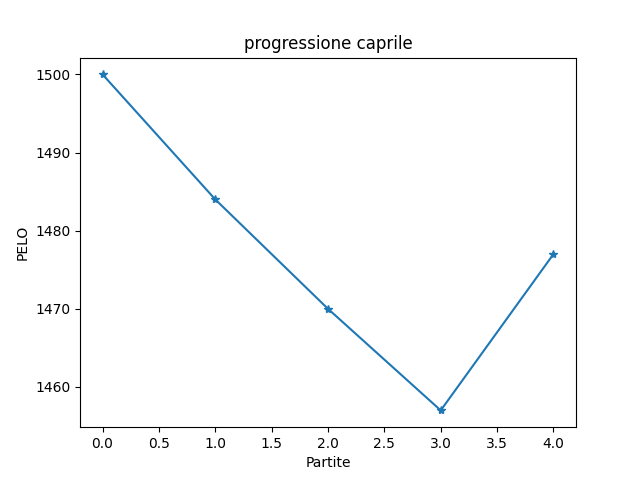
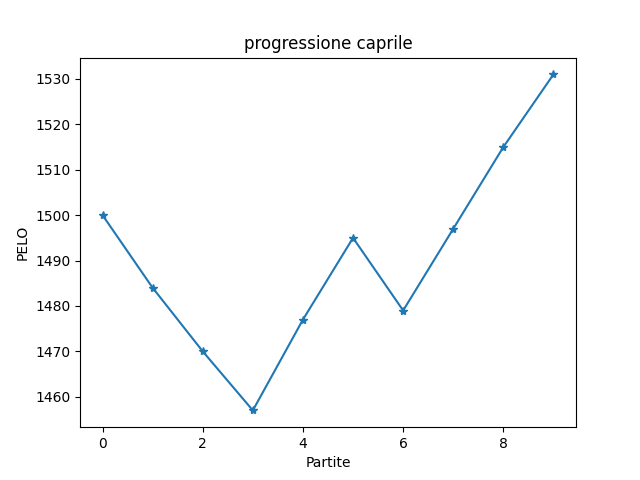
Add files via upload

diff --git a/index.htm b/index.htm
@@ -2,7 +2,7 @@
 <html>
 <link rel='stylesheet' href='style.css'>
 <center><body><br><h1 style='color:blue;'><big>TORNEO ESTATE 2024</big></h1></body><title>Classifica</title>
-<h5>Ultimo aggiornamento: 2024-06-12 alle 14:58:31</h5>
+<h5>Ultimo aggiornamento: 2024-06-13 alle 14:45:35</h5>
 <br><br><h1>Classifica</h1><table border='1' class='dataframe'>
 <thead>
 <tr 'text-align: right;'>
@@ -10,24 +10,24 @@
 <th>PELO</th><th>Statistiche</th></tr>
 </thead>
 <tbody><tr>
-<td>1</td><td>zontini</td>
-<td>1543</td><td><b><center><a href = 'statistiche_zontini.htm'>I</a></center></h3></b>
+<td>1</td><td>devigili</td>
+<td>1539</td><td><b><center><a href = 'statistiche_devigili.htm'>I</a></center></h3></b>
 </tr>
 <tr>
-<td>2</td><td>devigili</td>
-<td>1522</td><td><b><center><a href = 'statistiche_devigili.htm'>I</a></center></h3></b>
+<td>2</td><td>caprile</td>
+<td>1531</td><td><b><center><a href = 'statistiche_caprile.htm'>I</a></center></h3></b>
 </tr>
 <tr>
-<td>3</td><td>castellani</td>
-<td>1511</td><td><b><center><a href = 'statistiche_castellani.htm'>I</a></center></h3></b>
+<td>3</td><td>zontini</td>
+<td>1495</td><td><b><center><a href = 'statistiche_zontini.htm'>I</a></center></h3></b>
 </tr>
 <tr>
-<td>4</td><td>tronza</td>
+<td>4</td><td>castellani</td>
+<td>1494</td><td><b><center><a href = 'statistiche_castellani.htm'>I</a></center></h3></b>
+</tr>
+<tr>
+<td>5</td><td>tronza</td>
 <td>1485</td><td><b><center><a href = 'statistiche_tronza.htm'>I</a></center></h3></b>
-</tr>
-<tr>
-<td>5</td><td>caprile</td>
-<td>1477</td><td><b><center><a href = 'statistiche_caprile.htm'>I</a></center></h3></b>
 </tr>
 <tr>
 <td>6</td><td>scaglia</td>
@@ -35,7 +35,7 @@
 </tr>
 </table>
 <br><br><center><h1><b>Statistiche Globali</b></h1></center><center><table id='statistiche' border='1' class='dataframe'>
-<tr><td><b>Più partite fatte</b></td><td>castellani (7)</td></tr>
-<tr><td><b>Più partite vinte</b></td><td>zontini (4)</td></tr>
-<tr><td><b>Percentuale di vittorie più alta</b></td><td>zontini (80.0%)</td></tr>
+<tr><td><b>Più partite fatte</b></td><td>castellani (10)</td></tr>
+<tr><td><b>Più partite vinte</b></td><td>caprile (5)</td></tr>
+<tr><td><b>Percentuale di vittorie più alta</b></td><td>devigili (75.0%)</td></tr>
 </table><br><br><br><br><br><h2><center><a href='storico_partite.html'>Storico partite</a></center></h2><br><br><br><br></html>

diff --git a/statistiche_caprile.htm b/statistiche_caprile.htm
@@ -5,17 +5,17 @@
 <h1><center>Statistiche: caprile</center></h1>
 <center><img src='caprile.png'></center>
 </head><br><br><center><table id='statistiche' border='1' class='dataframe'>
-<tr><td><b>Partite fatte</b></td><td>4</td></tr>
-<tr><td><b>Partite vinte</b></td><td>1 (25.0%)</td></tr>
-<tr><td><b>Record PELO</b></td><td>1500</td></tr>
-<tr><td><b>Best streak</b></td><td>1</td></tr>
-<tr><td><b>Current streak</b></td><td>1</td></tr>
-<tr><td><b>Punti fatti</b></td><td>35</td></tr>
-<tr><td><b>Punti subiti</b></td><td>41</td></tr>
+<tr><td><b>Partite fatte</b></td><td>9</td></tr>
+<tr><td><b>Partite vinte</b></td><td>5 (55.5%)</td></tr>
+<tr><td><b>Record PELO</b></td><td>1531</td></tr>
+<tr><td><b>Best streak</b></td><td>3</td></tr>
+<tr><td><b>Current streak</b></td><td>3</td></tr>
+<tr><td><b>Punti fatti</b></td><td>88</td></tr>
+<tr><td><b>Punti subiti</b></td><td>74</td></tr>
 </table></center></body><br><br><center><table id='statistiche' border='1' class='dataframe'>
-<br><h2>Statistiche contro gli altri giocatori</h2><tr><td><b>zontini</b></td><td><b>N/A% (<span style='color:green'>0</span> / <span style='color:red'>0</span>  / 0)</b></td></tr>
-<tr><td><b>devigili</b></td><td><b>N/A% (<span style='color:green'>0</span> / <span style='color:red'>0</span>  / 0)</b></td></tr>
-<tr><td><b>castellani</b></td><td><b>25.0% (<span style='color:green'>1</span> / <span style='color:red'>3</span>  / 4)</b></td></tr>
+<br><h2>Statistiche contro gli altri giocatori</h2><tr><td><b>devigili</b></td><td><b>N/A% (<span style='color:green'>0</span> / <span style='color:red'>0</span>  / 0)</b></td></tr>
+<tr><td><b>zontini</b></td><td><b>100.0% (<span style='color:green'>2</span> / <span style='color:red'>0</span>  / 2)</b></td></tr>
+<tr><td><b>castellani</b></td><td><b>42.8% (<span style='color:green'>3</span> / <span style='color:red'>4</span>  / 7)</b></td></tr>
 <tr><td><b>tronza</b></td><td><b>N/A% (<span style='color:green'>0</span> / <span style='color:red'>0</span>  / 0)</b></td></tr>
 <tr><td><b>scaglia</b></td><td><b>N/A% (<span style='color:green'>0</span> / <span style='color:red'>0</span>  / 0)</b></td></tr>
 <br><br><br></html>

diff --git a/statistiche_devigili.htm b/statistiche_devigili.htm
@@ -5,17 +5,17 @@
 <h1><center>Statistiche: devigili</center></h1>
 <center><img src='devigili.png'></center>
 </head><br><br><center><table id='statistiche' border='1' class='dataframe'>
-<tr><td><b>Partite fatte</b></td><td>3</td></tr>
-<tr><td><b>Partite vinte</b></td><td>2 (66.6%)</td></tr>
-<tr><td><b>Record PELO</b></td><td>1522</td></tr>
-<tr><td><b>Best streak</b></td><td>1</td></tr>
-<tr><td><b>Current streak</b></td><td>1</td></tr>
-<tr><td><b>Punti fatti</b></td><td>31</td></tr>
-<tr><td><b>Punti subiti</b></td><td>19</td></tr>
+<tr><td><b>Partite fatte</b></td><td>4</td></tr>
+<tr><td><b>Partite vinte</b></td><td>3 (75.0%)</td></tr>
+<tr><td><b>Record PELO</b></td><td>1539</td></tr>
+<tr><td><b>Best streak</b></td><td>2</td></tr>
+<tr><td><b>Current streak</b></td><td>2</td></tr>
+<tr><td><b>Punti fatti</b></td><td>42</td></tr>
+<tr><td><b>Punti subiti</b></td><td>25</td></tr>
 </table></center></body><br><br><center><table id='statistiche' border='1' class='dataframe'>
-<br><h2>Statistiche contro gli altri giocatori</h2><tr><td><b>zontini</b></td><td><b>0.0% (<span style='color:green'>0</span> / <span style='color:red'>1</span>  / 1)</b></td></tr>
+<br><h2>Statistiche contro gli altri giocatori</h2><tr><td><b>caprile</b></td><td><b>N/A% (<span style='color:green'>0</span> / <span style='color:red'>0</span>  / 0)</b></td></tr>
+<tr><td><b>zontini</b></td><td><b>50.0% (<span style='color:green'>1</span> / <span style='color:red'>1</span>  / 2)</b></td></tr>
 <tr><td><b>castellani</b></td><td><b>100.0% (<span style='color:green'>2</span> / <span style='color:red'>0</span>  / 2)</b></td></tr>
 <tr><td><b>tronza</b></td><td><b>N/A% (<span style='color:green'>0</span> / <span style='color:red'>0</span>  / 0)</b></td></tr>
-<tr><td><b>caprile</b></td><td><b>N/A% (<span style='color:green'>0</span> / <span style='color:red'>0</span>  / 0)</b></td></tr>
 <tr><td><b>scaglia</b></td><td><b>N/A% (<span style='color:green'>0</span> / <span style='color:red'>0</span>  / 0)</b></td></tr>
 <br><br><br></html>

diff --git a/statistiche_castellani.htm b/statistiche_castellani.htm
@@ -5,17 +5,17 @@
 <h1><center>Statistiche: castellani</center></h1>
 <center><img src='castellani.png'></center>
 </head><br><br><center><table id='statistiche' border='1' class='dataframe'>
-<tr><td><b>Partite fatte</b></td><td>7</td></tr>
-<tr><td><b>Partite vinte</b></td><td>4 (57.1%)</td></tr>
+<tr><td><b>Partite fatte</b></td><td>10</td></tr>
+<tr><td><b>Partite vinte</b></td><td>5 (50.0%)</td></tr>
 <tr><td><b>Record PELO</b></td><td>1545</td></tr>
 <tr><td><b>Best streak</b></td><td>3</td></tr>
 <tr><td><b>Current streak</b></td><td>0</td></tr>
-<tr><td><b>Punti fatti</b></td><td>60</td></tr>
-<tr><td><b>Punti subiti</b></td><td>66</td></tr>
+<tr><td><b>Punti fatti</b></td><td>81</td></tr>
+<tr><td><b>Punti subiti</b></td><td>97</td></tr>
 </table></center></body><br><br><center><table id='statistiche' border='1' class='dataframe'>
-<br><h2>Statistiche contro gli altri giocatori</h2><tr><td><b>zontini</b></td><td><b>100.0% (<span style='color:green'>1</span> / <span style='color:red'>0</span>  / 1)</b></td></tr>
-<tr><td><b>devigili</b></td><td><b>0.0% (<span style='color:green'>0</span> / <span style='color:red'>2</span>  / 2)</b></td></tr>
+<br><h2>Statistiche contro gli altri giocatori</h2><tr><td><b>devigili</b></td><td><b>0.0% (<span style='color:green'>0</span> / <span style='color:red'>2</span>  / 2)</b></td></tr>
+<tr><td><b>caprile</b></td><td><b>57.1% (<span style='color:green'>4</span> / <span style='color:red'>3</span>  / 7)</b></td></tr>
+<tr><td><b>zontini</b></td><td><b>100.0% (<span style='color:green'>1</span> / <span style='color:red'>0</span>  / 1)</b></td></tr>
 <tr><td><b>tronza</b></td><td><b>N/A% (<span style='color:green'>0</span> / <span style='color:red'>0</span>  / 0)</b></td></tr>
-<tr><td><b>caprile</b></td><td><b>75.0% (<span style='color:green'>3</span> / <span style='color:red'>1</span>  / 4)</b></td></tr>
 <tr><td><b>scaglia</b></td><td><b>N/A% (<span style='color:green'>0</span> / <span style='color:red'>0</span>  / 0)</b></td></tr>
 <br><br><br></html>

diff --git a/statistiche_zontini.htm b/statistiche_zontini.htm
@@ -5,17 +5,17 @@
 <h1><center>Statistiche: zontini</center></h1>
 <center><img src='zontini.png'></center>
 </head><br><br><center><table id='statistiche' border='1' class='dataframe'>
-<tr><td><b>Partite fatte</b></td><td>5</td></tr>
-<tr><td><b>Partite vinte</b></td><td>4 (80.0%)</td></tr>
+<tr><td><b>Partite fatte</b></td><td>8</td></tr>
+<tr><td><b>Partite vinte</b></td><td>4 (50.0%)</td></tr>
 <tr><td><b>Record PELO</b></td><td>1561</td></tr>
 <tr><td><b>Best streak</b></td><td>4</td></tr>
 <tr><td><b>Current streak</b></td><td>0</td></tr>
-<tr><td><b>Punti fatti</b></td><td>53</td></tr>
-<tr><td><b>Punti subiti</b></td><td>35</td></tr>
+<tr><td><b>Punti fatti</b></td><td>71</td></tr>
+<tr><td><b>Punti subiti</b></td><td>68</td></tr>
 </table></center></body><br><br><center><table id='statistiche' border='1' class='dataframe'>
-<br><h2>Statistiche contro gli altri giocatori</h2><tr><td><b>devigili</b></td><td><b>100.0% (<span style='color:green'>1</span> / <span style='color:red'>0</span>  / 1)</b></td></tr>
+<br><h2>Statistiche contro gli altri giocatori</h2><tr><td><b>devigili</b></td><td><b>50.0% (<span style='color:green'>1</span> / <span style='color:red'>1</span>  / 2)</b></td></tr>
+<tr><td><b>caprile</b></td><td><b>0.0% (<span style='color:green'>0</span> / <span style='color:red'>2</span>  / 2)</b></td></tr>
 <tr><td><b>castellani</b></td><td><b>0.0% (<span style='color:green'>0</span> / <span style='color:red'>1</span>  / 1)</b></td></tr>
 <tr><td><b>tronza</b></td><td><b>100.0% (<span style='color:green'>1</span> / <span style='color:red'>0</span>  / 1)</b></td></tr>
-<tr><td><b>caprile</b></td><td><b>N/A% (<span style='color:green'>0</span> / <span style='color:red'>0</span>  / 0)</b></td></tr>
 <tr><td><b>scaglia</b></td><td><b>100.0% (<span style='color:green'>2</span> / <span style='color:red'>0</span>  / 2)</b></td></tr>
 <br><br><br></html>

diff --git a/statistiche_tronza.htm b/statistiche_tronza.htm
@@ -13,9 +13,9 @@
 <tr><td><b>Punti fatti</b></td><td>5</td></tr>
 <tr><td><b>Punti subiti</b></td><td>11</td></tr>
 </table></center></body><br><br><center><table id='statistiche' border='1' class='dataframe'>
-<br><h2>Statistiche contro gli altri giocatori</h2><tr><td><b>zontini</b></td><td><b>0.0% (<span style='color:green'>0</span> / <span style='color:red'>1</span>  / 1)</b></td></tr>
-<tr><td><b>devigili</b></td><td><b>N/A% (<span style='color:green'>0</span> / <span style='color:red'>0</span>  / 0)</b></td></tr>
-<tr><td><b>castellani</b></td><td><b>N/A% (<span style='color:green'>0</span> / <span style='color:red'>0</span>  / 0)</b></td></tr>
+<br><h2>Statistiche contro gli altri giocatori</h2><tr><td><b>devigili</b></td><td><b>N/A% (<span style='color:green'>0</span> / <span style='color:red'>0</span>  / 0)</b></td></tr>
 <tr><td><b>caprile</b></td><td><b>N/A% (<span style='color:green'>0</span> / <span style='color:red'>0</span>  / 0)</b></td></tr>
+<tr><td><b>zontini</b></td><td><b>0.0% (<span style='color:green'>0</span> / <span style='color:red'>1</span>  / 1)</b></td></tr>
+<tr><td><b>castellani</b></td><td><b>N/A% (<span style='color:green'>0</span> / <span style='color:red'>0</span>  / 0)</b></td></tr>
 <tr><td><b>scaglia</b></td><td><b>N/A% (<span style='color:green'>0</span> / <span style='color:red'>0</span>  / 0)</b></td></tr>
 <br><br><br></html>

diff --git a/statistiche_scaglia.htm b/statistiche_scaglia.htm
@@ -13,9 +13,9 @@
 <tr><td><b>Punti fatti</b></td><td>10</td></tr>
 <tr><td><b>Punti subiti</b></td><td>22</td></tr>
 </table></center></body><br><br><center><table id='statistiche' border='1' class='dataframe'>
-<br><h2>Statistiche contro gli altri giocatori</h2><tr><td><b>zontini</b></td><td><b>0.0% (<span style='color:green'>0</span> / <span style='color:red'>2</span>  / 2)</b></td></tr>
-<tr><td><b>devigili</b></td><td><b>N/A% (<span style='color:green'>0</span> / <span style='color:red'>0</span>  / 0)</b></td></tr>
+<br><h2>Statistiche contro gli altri giocatori</h2><tr><td><b>devigili</b></td><td><b>N/A% (<span style='color:green'>0</span> / <span style='color:red'>0</span>  / 0)</b></td></tr>
+<tr><td><b>caprile</b></td><td><b>N/A% (<span style='color:green'>0</span> / <span style='color:red'>0</span>  / 0)</b></td></tr>
+<tr><td><b>zontini</b></td><td><b>0.0% (<span style='color:green'>0</span> / <span style='color:red'>2</span>  / 2)</b></td></tr>
 <tr><td><b>castellani</b></td><td><b>N/A% (<span style='color:green'>0</span> / <span style='color:red'>0</span>  / 0)</b></td></tr>
 <tr><td><b>tronza</b></td><td><b>N/A% (<span style='color:green'>0</span> / <span style='color:red'>0</span>  / 0)</b></td></tr>
-<tr><td><b>caprile</b></td><td><b>N/A% (<span style='color:green'>0</span> / <span style='color:red'>0</span>  / 0)</b></td></tr>
 <br><br><br></html>

diff --git a/storico_partite.html b/storico_partite.html
@@ -49,5 +49,29 @@
 <td>11</td><td>castellani</td>
 <td>devigili</td><td><b><center>2-11</center></h3></b>
 </tr>
+<tr>
+<td>12</td><td>devigili</td>
+<td>zontini</td><td><b><center>11-6</center></h3></b>
+</tr>
+<tr>
+<td>13</td><td>caprile</td>
+<td>castellani</td><td><b><center>11-3</center></h3></b>
+</tr>
+<tr>
+<td>14</td><td>caprile</td>
+<td>castellani</td><td><b><center>9-11</center></h3></b>
+</tr>
+<tr>
+<td>15</td><td>caprile</td>
+<td>castellani</td><td><b><center>11-7</center></h3></b>
+</tr>
+<tr>
+<td>16</td><td>caprile</td>
+<td>zontini</td><td><b><center>11-4</center></h3></b>
+</tr>
+<tr>
+<td>17</td><td>caprile</td>
+<td>zontini</td><td><b><center>11-8</center></h3></b>
+</tr>
 </table></center>
 </html>
